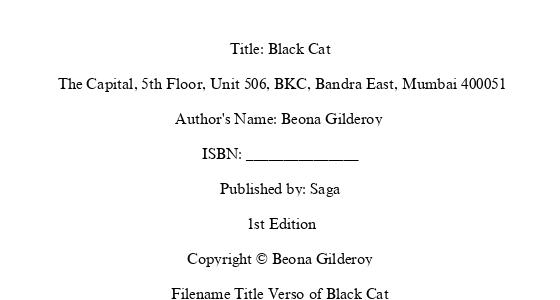
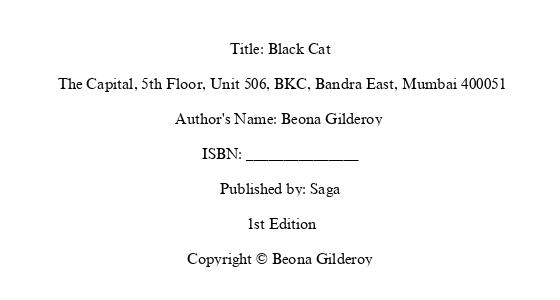
Fourth commit

Changed region(s): [[0.3036, 0.96, 0.6982, 1.0]]

diff --git a/CSV_to_Image/Script.py b/CSV_to_Image/Script.py
@@ -23,10 +23,11 @@ def send_data_for_image(mykey, df):
             key_is = ""
             if str(k).startswith("N/A")==False:
                 key_is = k
-            if str(k) != "Height" and str(k) != "Width":
+            if str(k) != "Height" and str(k) != "Width" and str(k) != "Filename":
                 pad = cal_padding(w, img_edit, key_is, i, k, df, tit_fnt)
                 img_edit.text((pad, text_height), f"{key_is} {df[k][i]}", (0, 0, 0), font=tit_fnt)
                 text_height = text_height + 35
+
         # img.show()
         img.save(f"Output/{df['Filename'][i]}.jpg")
 
